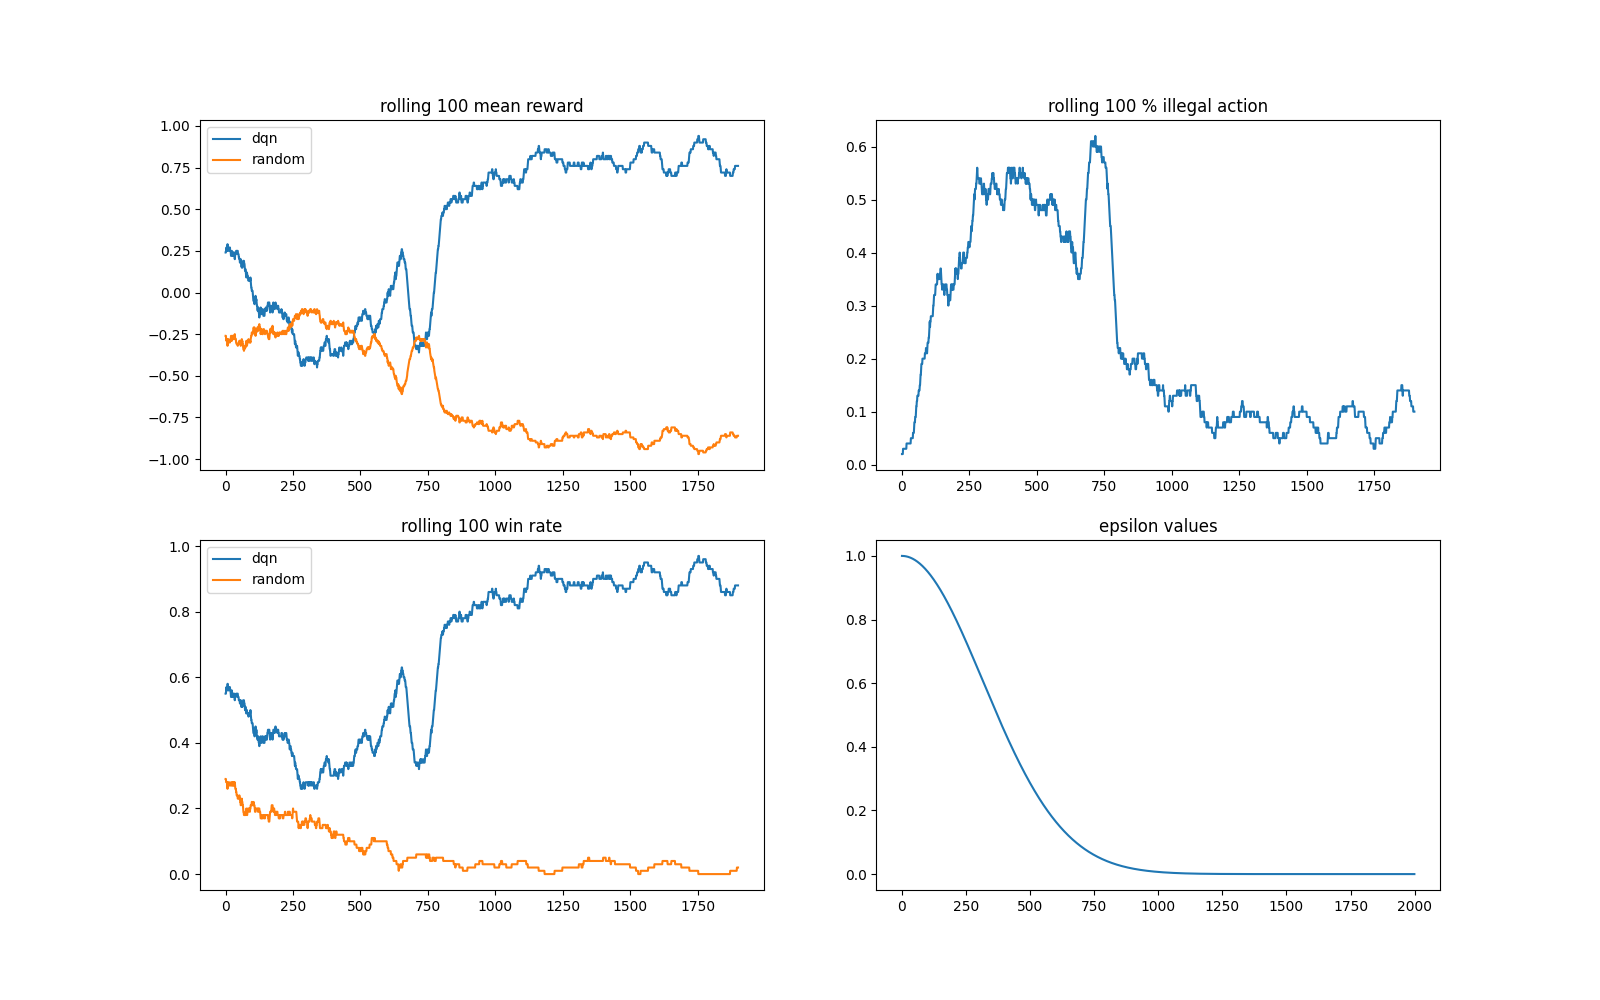
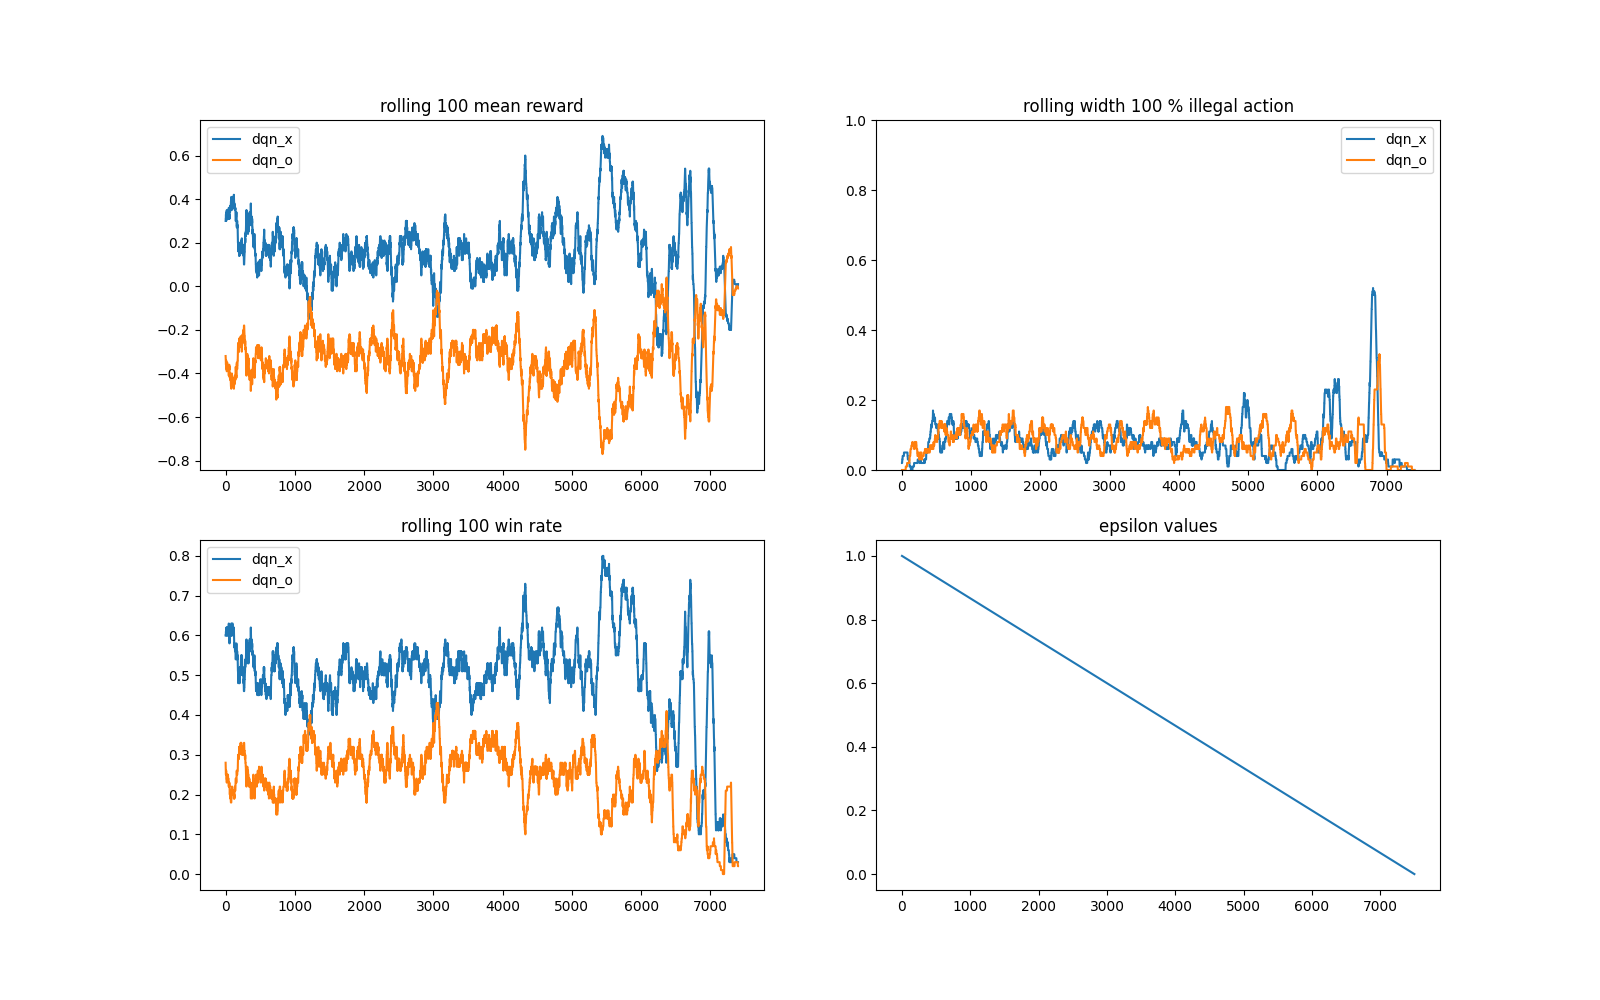
dqn v dqn

diff --git a/src/game/dqn_dqn_ttt.py b/src/game/dqn_dqn_ttt.py
@@ -1,0 +1,104 @@
+import numpy as np
+from pettingzoo.classic import tictactoe_v3
+
+from ..eval.eps_decay import ExponentialDecay, LinearDecay
+from ..agents.dqn_agent import DQNAgent
+from ..utils.utils import *
+
+class TicTacToeDQNDQN:
+
+    def __init__(self, 
+                 agent_dqnx: DQNAgent,
+                 agent_dqno: DQNAgent, 
+                 gamma: float = 0.9, 
+                 tau: float = 0.75, 
+                 decay = ExponentialDecay(0.001)):
+       
+        self.gamma = gamma
+        self.tau = tau
+        self.decay = decay
+
+        self.env = tictactoe_v3.env(render_mode=None)
+        self.env.reset()
+
+        self.agent_dqnx = agent_dqnx
+        self.agent_dqno = agent_dqno
+
+        self.agent_dqnx.id(self.env.agents[0])
+        self.agent_dqno.id(self.env.agents[1])
+
+        self.agent_map = {
+            self.agent_dqnx._id : self.agent_dqnx,
+            self.agent_dqno._id : self.agent_dqno
+        }
+        
+        self.agents = tuple(self.env.agents)
+
+    def train(self, episodes: int) -> tuple[dict, np.array]:
+
+        reward_history = {agent_id: np.zeros(episodes) for agent_id in self.env.agents}
+        prev_sa = {agent_id: (None, None) for agent_id in self.env.agents}
+
+        epsilon = 1  # Start with a fully exploratory policy
+        epsilon_history = np.zeros(episodes)
+
+        for i in range(episodes):
+            self.env = tictactoe_v3.env(render_mode=None)
+            self.env.reset()
+
+            for agent_id in self.env.agent_iter():
+                observation, reward, terminated, truncated, _ = self.env.last()
+                done = terminated or truncated
+                state, action_mask = observation.values()
+                input_tensor = state_to_input(state)
+                agent = self.agent_map[agent_id]
+
+                ps, pa = prev_sa[agent_id]
+                if ps is not None and pa is not None:
+                    agent.step(ps, pa, reward, input_tensor, done, self.gamma, self.tau)
+                if done: 
+                    action = None
+                    reward_history[agent_id][i] = reward
+                else:
+                    action = agent.act(input_tensor, action_mask, eps=epsilon)
+                prev_sa[agent_id] = (input_tensor, action)
+                self.env.step(action)
+
+            epsilon_history[i] = epsilon
+            epsilon = self.decay.get(epsilon, i)
+
+        return reward_history, epsilon_history
+
+# Additional functions like state_to_board can be documented similarly.
+
+if __name__ == '__main__':
+    
+    gamma = 0.99
+    tau = 0.75
+    states = 18
+    actions = 9
+    seed = 42
+    sync = 5
+    hidden = 32
+    batch = 96
+    episodes = 7500
+    decay = LinearDecay(episodes)
+
+    dqnx = DQNAgent(states, actions, hidden_size=hidden, seed=seed, sync=sync, batch_size=batch)
+    dqno = DQNAgent(states, actions, hidden_size=hidden, seed=seed, sync=sync, batch_size=batch)
+    ttt = TicTacToeDQNDQN(dqnx, dqno, gamma, tau, decay)
+    
+    agents = {
+        ttt.agents[0] : 'dqn_x',
+        ttt.agents[1] : 'dqn_o'
+    }
+    
+    rh, eh = ttt.train(episodes)
+    width = 100
+    for agent_id, history in rh.items():
+            cp = find_convergence_point(history)
+            print(f'{agents[agent_id]}_cnvg: {cp}')
+            print(f'{agents[agent_id]}_cnvg_val: {history[cp:].mean() * (cp != -1) - (cp == -1)}')
+            print(f'{agents[agent_id]}_cnvg_val: {history[-width:].mean()}')
+
+    save_results(agents, rh, eh, 'initial', width=width)

diff --git a/src/utils/utils.py b/src/utils/utils.py
@@ -44,13 +44,16 @@ def save_results(agents, reward_history, epsilon_history, plot_name, width=100):
 
     # Illegal action %
     f_illegal = lambda arr: np.sum(arr != 0, axis=-1) / np.shape(arr)[-1]
-    illegal_percent = rolling(np.array(list(map(sum, zip(*reward_history.values())))),
-                              f_illegal,
-                              width)
+    indices = np.array(list(map(sum, zip(*reward_history.values())))) != 0
+    illegal_percent = {agent_id : rolling(rh * indices, f_illegal, width)
+                       for agent_id, rh in reward_history.items()}
     
     plt.subplot(222)
-    plt.plot(illegal_percent)
-    plt.title(f'rolling {width} % illegal action')
+    for agent_id, rew in illegal_percent.items():
+        plt.plot(rew, label=agents[agent_id])
+    plt.legend()
+    plt.ylim(0, 1)
+    plt.title(f'rolling width {width} % illegal action')
 
     # Win rate
     f_winrate = lambda arr: np.sum(arr == 1, axis=-1) / np.shape(arr)[-1]
@@ -115,3 +118,28 @@ def ascii_state(state: torch.tensor):
                     board[i][j] = 'o '
 
     return np.array(board, dtype=str)
+
+def find_convergence_point(arr, tolerance=0.05):
+    """
+    Finds the first index in an array where the absolute differences between subsequent elements
+    converge within a specified tolerance and continue to do so for all subsequent elements.
+
+    Parameters:
+    - arr (array-like): The input array to check for convergence. Expected to be a NumPy array or a list.
+    - tolerance (float, optional): The tolerance within which the absolute differences between
+      subsequent elements must fall to consider them as converging. Defaults to 0.05.
+
+    Returns:
+    - int: The index of the first element in the array where convergence within the specified tolerance
+      is achieved and sustained for all subsequent elements. Returns -1 if no such convergence point is found.
+
+    """
+    import numpy as np
+
+    diffs = np.abs(np.diff(arr))
+    within_tolerance = diffs <= tolerance
+    all_subsequent_within_tol = np.cumprod(within_tolerance[::-1])[::-1]
+    first_converge_index = np.argmax(all_subsequent_within_tol)
+    if all_subsequent_within_tol[first_converge_index] == 1:
+        return first_converge_index
+    return -1

diff --git a/src/eval/hyperparam_linear.py b/src/eval/hyperparam_linear.py
@@ -1,0 +1,48 @@
+import itertools
+import numpy as np
+import pandas as pd
+
+from ..utils.utils import find_convergence_point
+from .eps_decay import LinearDecay
+from ..agents.dqn_agent import DQNAgent
+from ..game.dqn_dqn_ttt import TicTacToeDQNDQN
+    
+if __name__ == "__main__":
+
+    states = 18
+    actions = 9
+    seed = 42
+    episodes = 7500
+    decay = LinearDecay(episodes)
+    width = 100
+    thresh = 0.1
+
+    # hyperparameter search
+    columns = ['gamma', 'tau', 'sync', 'batch_size', 'hidden_size']
+    gammas = [0.99, 1]
+    taus = [0.85, 0.95, 1]
+    syncs = [2, 5, 9]
+    batch_sizes = [16, 32, 64, 96]
+    hidden_sizes = [16, 32, 64]
+    cartesian_product = list(itertools.product(gammas, taus, syncs, batch_sizes, hidden_sizes))
+    hyperparams = pd.DataFrame(cartesian_product, columns=columns)
+    res_col = ['x_cnvg', 'o_cnvg', 'x_cnvg_val', 'o_cnvg_val', 'x_rwd', 'o_rwd']
+    res = pd.DataFrame(columns = res_col, index = hyperparams.index)
+
+    for i, (gamma, tau, sync, bs, hs) in hyperparams.iterrows():
+        print(f'iteration {i+1}: {gamma, tau, sync, bs, hs}')
+        bs, hs = int(bs), int(hs)
+        dqnx = DQNAgent(states, actions, hidden_size=hs, seed=seed, sync=sync, batch_size=bs)
+        dqno = DQNAgent(states, actions, hidden_size=hs, seed=seed, sync=sync, batch_size=bs)
+        ttt = TicTacToeDQNDQN(dqnx, dqno, gamma, tau, decay)
+        rh, _ = ttt.train(episodes)
+        agents = {ttt.agents[0] : 'x', ttt.agents[1] : 'o'}
+
+        for agent_id, history in rh.items():
+            cp = find_convergence_point(history)
+            res.loc[i, f'{agents[agent_id]}_cnvg'] = cp
+            res.loc[i, f'{agents[agent_id]}_cnvg_val'] = history[cp:].mean() * (cp != -1) -(cp == -1)
+            res.loc[i, f'{agents[agent_id]}_rwd'] = history[-width:].mean()
+
+    hyperparams.to_csv('./hyperparameters/linear/hyperparams.csv')
+    res.to_csv('./hyperparameters/linear/results.csv')

diff --git a/src/game/dqn_random_ttt.py b/src/game/dqn_random_ttt.py
@@ -36,11 +36,11 @@ class TicTacToeDQNRandom:
         self.agents = tuple(self.env.agents)
 
         if player_dqn == 'x':
-            self.agent_dqn.id = self.env.agents[0]
-            self.agent_random.id = self.env.agents[1]
+            self.agent_dqn.id(self.env.agents[0])
+            self.agent_random.id(self.env.agents[1])
         else:
-            self.agent_dqn.id = self.env.agents[1]
-            self.agent_random.id = self.env.agents[0]
+            self.agent_dqn.id(self.env.agents[1])
+            self.agent_random.id(self.env.agents[0])
 
     def train(self, episodes: int) -> tuple[dict, np.array]:
         """
@@ -69,7 +69,7 @@ class TicTacToeDQNRandom:
                 input_tensor = state_to_input(state)
 
                 # DQN Agent's turn
-                if self.agent_dqn.id == agent_id: 
+                if self.agent_dqn._id == agent_id: 
                     ps, pa = prev_sa
                     if ps is not None and pa is not None:
                         self.agent_dqn.step(ps, pa, reward, input_tensor, done, self.gamma, self.tau)
@@ -99,7 +99,7 @@ class TicTacToeDQNRandom:
 if __name__ == '__main__':
     gamma = 1
     tau = 1
-    decay = 0.00001
+    decay = 0.0000015
     states = 18
     actions = 9
     seed = 42

diff --git a/src/agents/dqn_agent.py b/src/agents/dqn_agent.py
@@ -15,6 +15,7 @@ class DQNAgent(Agent):
                  seed=42,
                  sync=5,
                  alpha = 0.001,
+                 batch_size=32
                  ):
         """
         initialize a DQNAgent with the given settings.
@@ -32,7 +33,7 @@ class DQNAgent(Agent):
         self.optimizer = optim.Adam(self.qnetwork_policy.parameters(), lr=alpha) # hardcoded adam
 
         # replay buffer
-        self.memory = ReplayBuffer(action_size, buffer_size=1000, batch_size=64, seed=seed)
+        self.memory = ReplayBuffer(action_size, buffer_size=1000, batch_size=batch_size, seed=seed)
         self.timestep = 0
         self.sync = sync
 

diff --git a/src/eval/eps_decay.py b/src/eval/eps_decay.py
@@ -1,0 +1,18 @@
+import numpy as np
+
+class LinearDecay:
+    
+    def __init__(self, episodes):
+        self.episodes = episodes
+    
+    def get(self, eps, iter):
+        return eps - 1/self.episodes
+
+class ExponentialDecay:
+
+    def __init__(self, decay):
+        self.decay = decay
+    
+    def get(self, eps, iter):
+        return np.exp(-self.decay * iter)
+
